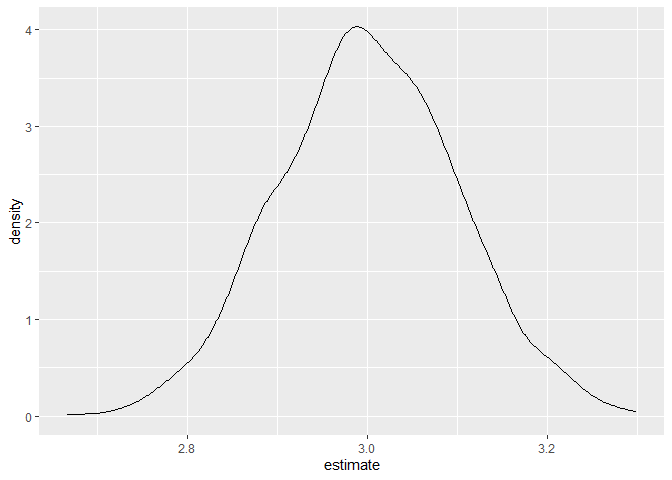
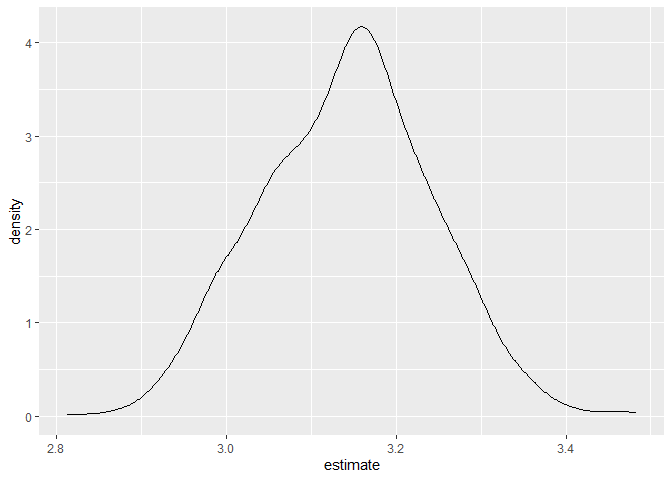
reasonable yes

diff --git a/bootstrap.md b/bootstrap.md
@@ -78,8 +78,8 @@ lm(y~x, data = sim_df_const) %>%  broom::tidy()
     ## # A tibble: 2 × 5
     ##   term        estimate std.error statistic   p.value
     ##   <chr>          <dbl>     <dbl>     <dbl>     <dbl>
-    ## 1 (Intercept)     2.26    0.0834      27.0 6.47e- 76
-    ## 2 x               2.90    0.0593      48.9 2.76e-129
+    ## 1 (Intercept)     1.98    0.0891      22.2 7.23e- 61
+    ## 2 x               3.06    0.0621      49.3 3.99e-130
 
 ``` r
 lm(y~x, data = sim_df_nonconst) %>%  broom::tidy()
@@ -88,8 +88,8 @@ lm(y~x, data = sim_df_nonconst) %>%  broom::tidy()
     ## # A tibble: 2 × 5
     ##   term        estimate std.error statistic   p.value
     ##   <chr>          <dbl>     <dbl>     <dbl>     <dbl>
-    ## 1 (Intercept)     2.03    0.0941      21.6 5.77e- 59
-    ## 2 x               3.00    0.0670      44.8 7.02e-121
+    ## 1 (Intercept)     1.93    0.0930      20.8 3.29e- 56
+    ## 2 x               3.14    0.0648      48.5 1.40e-128
 
 ``` r
 # from our plots we can see that there is alot of uncertainty because of fanning out. We can get estimates and stand deviation if we were to make assumptions but we want to solve the issue of uncertainty by bootstrapping. Issue is that we also don't trust the uncertainty of the estimates.
@@ -141,8 +141,8 @@ bootstrap_sample(sim_df_nonconst) %>%
     ## # A tibble: 2 × 5
     ##   term        estimate std.error statistic   p.value
     ##   <chr>          <dbl>     <dbl>     <dbl>     <dbl>
-    ## 1 (Intercept)     1.92    0.0849      22.6 2.66e- 62
-    ## 2 x               3.01    0.0637      47.1 8.60e-126
+    ## 1 (Intercept)     1.92    0.0996      19.3 3.55e- 51
+    ## 2 x               3.15    0.0688      45.8 4.43e-123
 
 ``` r
 # not a cohesive way of analysis
@@ -207,8 +207,8 @@ boot_results %>%
     ## # A tibble: 2 × 3
     ##   term        mean_est sd_est
     ##   <chr>          <dbl>  <dbl>
-    ## 1 (Intercept)     2.03 0.0592
-    ## 2 x               3.00 0.0989
+    ## 1 (Intercept)     1.93 0.0699
+    ## 2 x               3.14 0.100
 
 ``` r
 # giving the actual standard error and can we mimic this without making an assumption. Previously we have used a linear model that is a coincidence rather than what happens. If we compare bootstrap this is lower is we assumed constant variance which we have done in this example where we assume constant variance. 
@@ -244,8 +244,8 @@ boot_results %>%
     ## # A tibble: 2 × 3
     ##   term        ci_lower ci_upper
     ##   <chr>          <dbl>    <dbl>
-    ## 1 (Intercept)     1.92     2.15
-    ## 2 x               2.81     3.20
+    ## 1 (Intercept)     1.79     2.06
+    ## 2 x               2.95     3.33
 
 ``` r
 # we get a CI based on repeated sampling and this gives about 2.91 and 3.31
@@ -277,5 +277,9 @@ mutate(
     ## # A tibble: 2 × 3
     ##   term        mean_est sd_est
     ##   <chr>          <dbl>  <dbl>
-    ## 1 (Intercept)     2.03 0.0607
-    ## 2 x               3.00 0.0922
+    ## 1 (Intercept)     1.93 0.0720
+    ## 2 x               3.14 0.104
+
+What if your assumptions are met? Does it do something reasonable?
+
+Yes, they both work well
